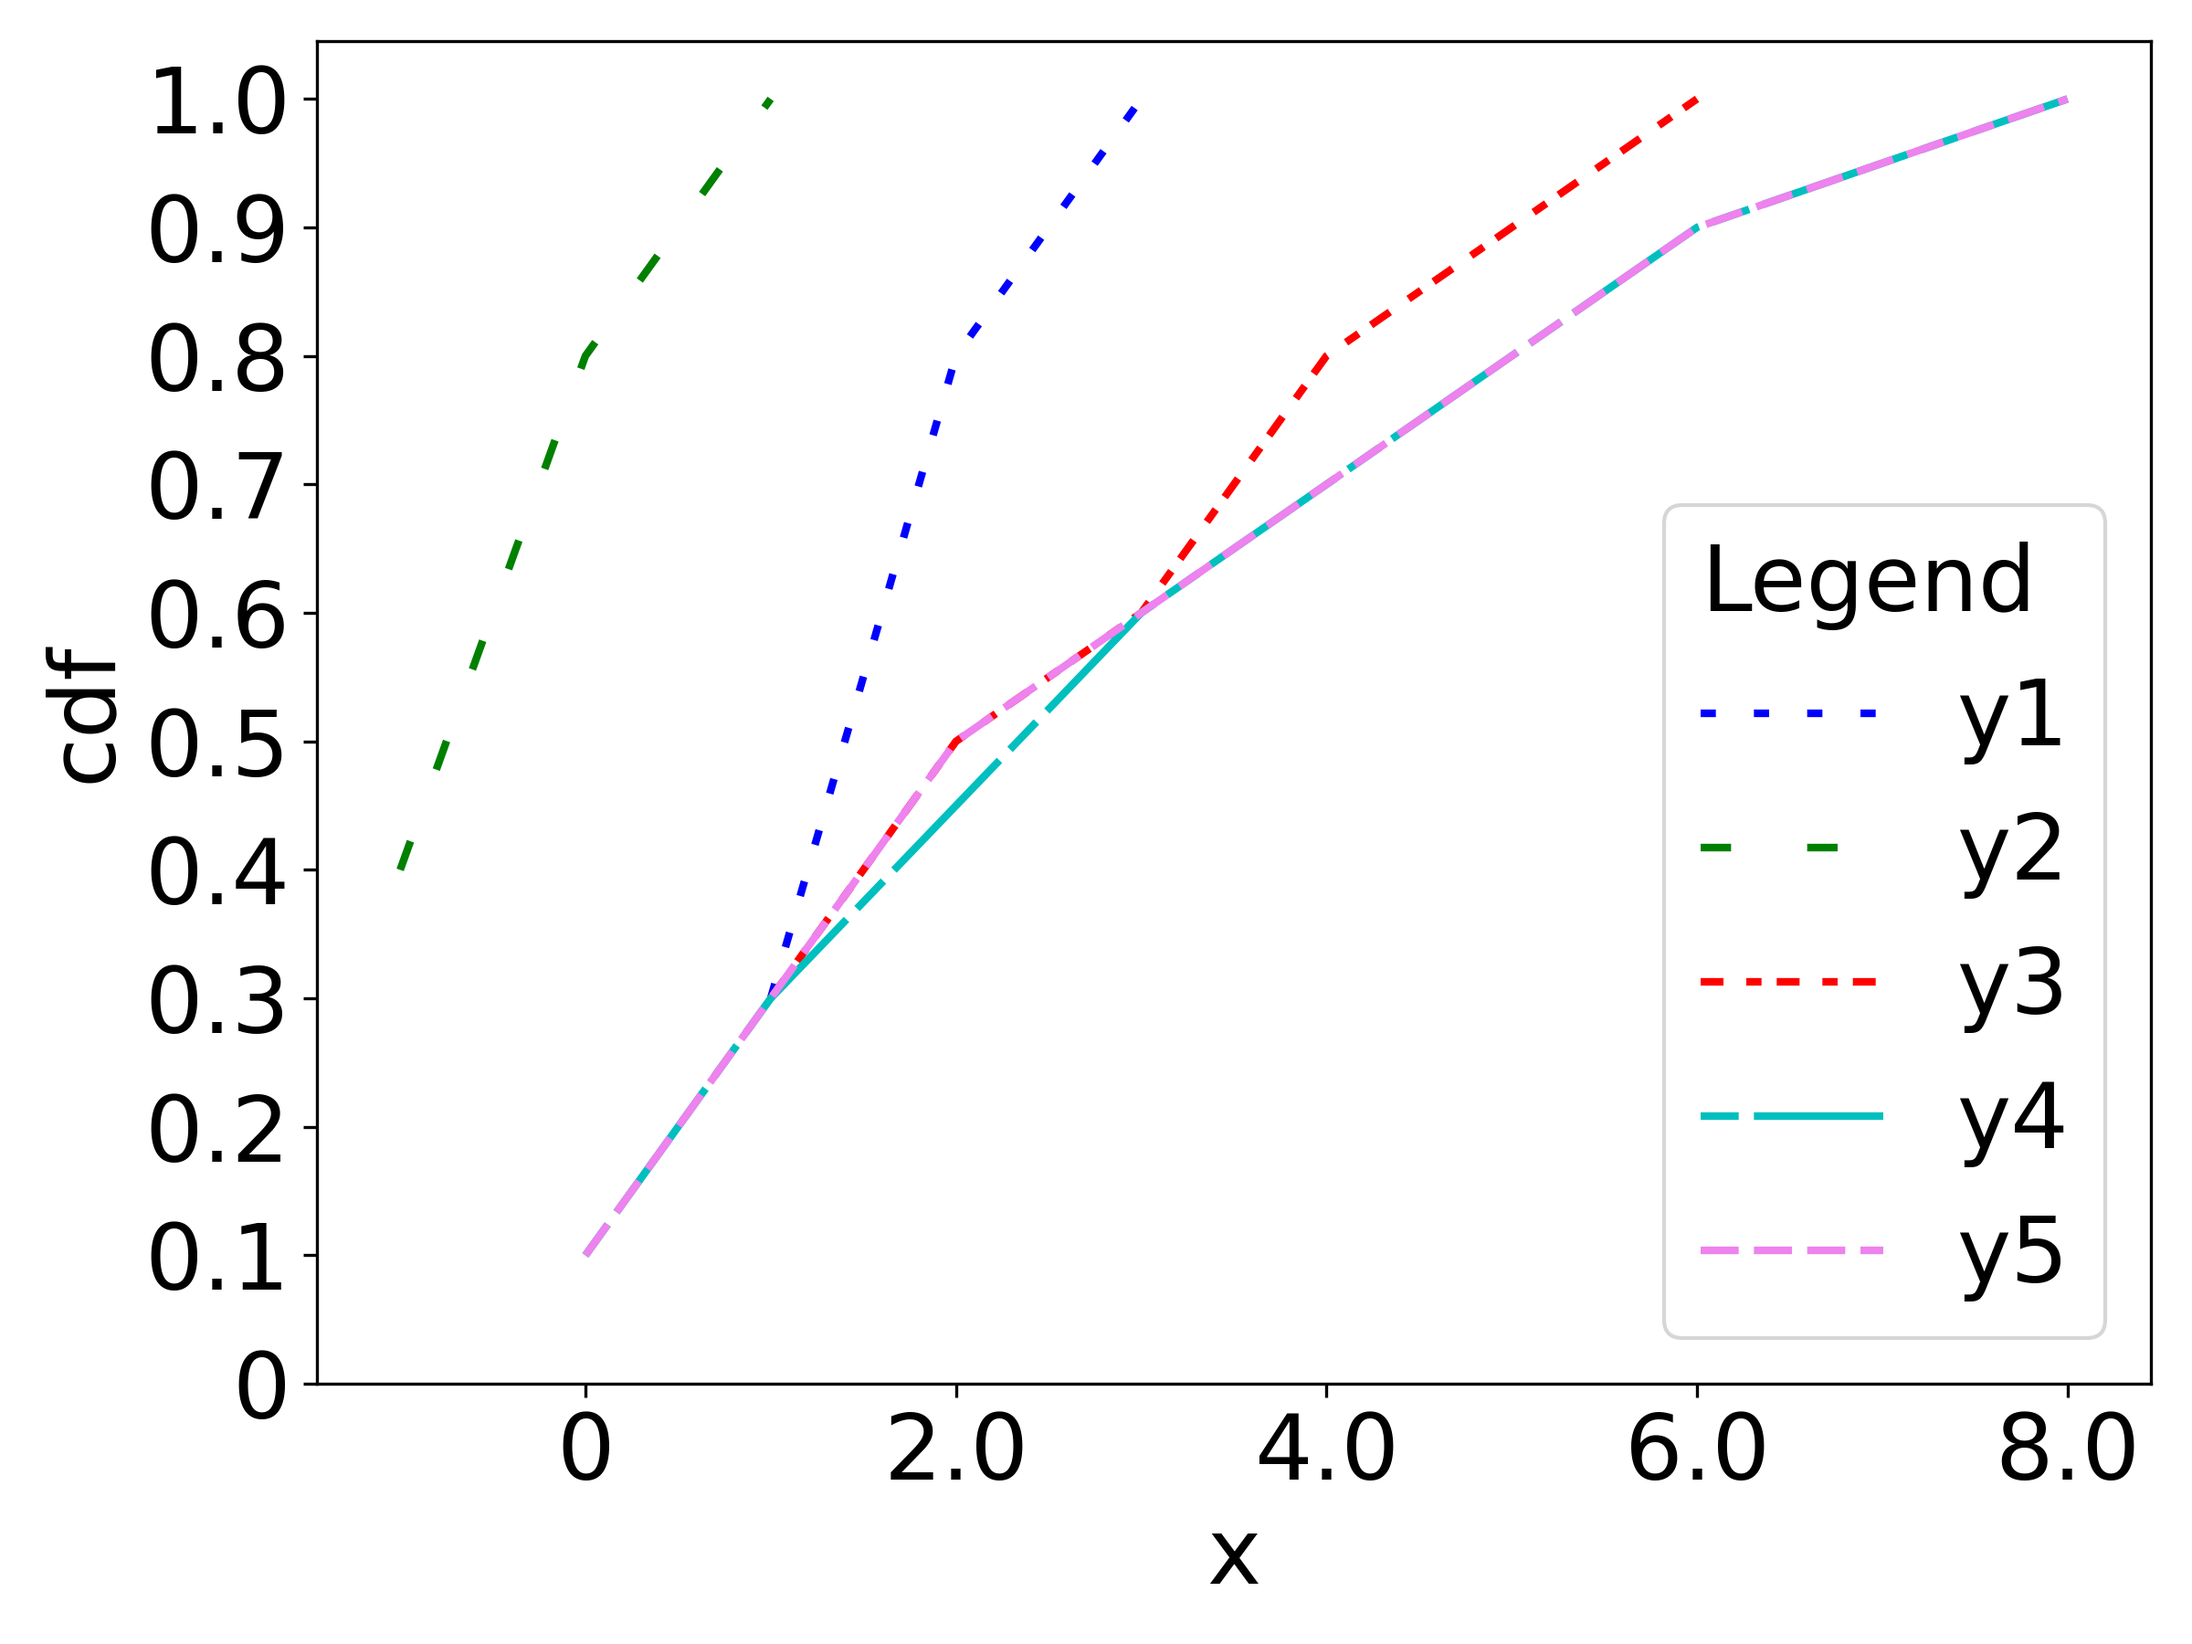
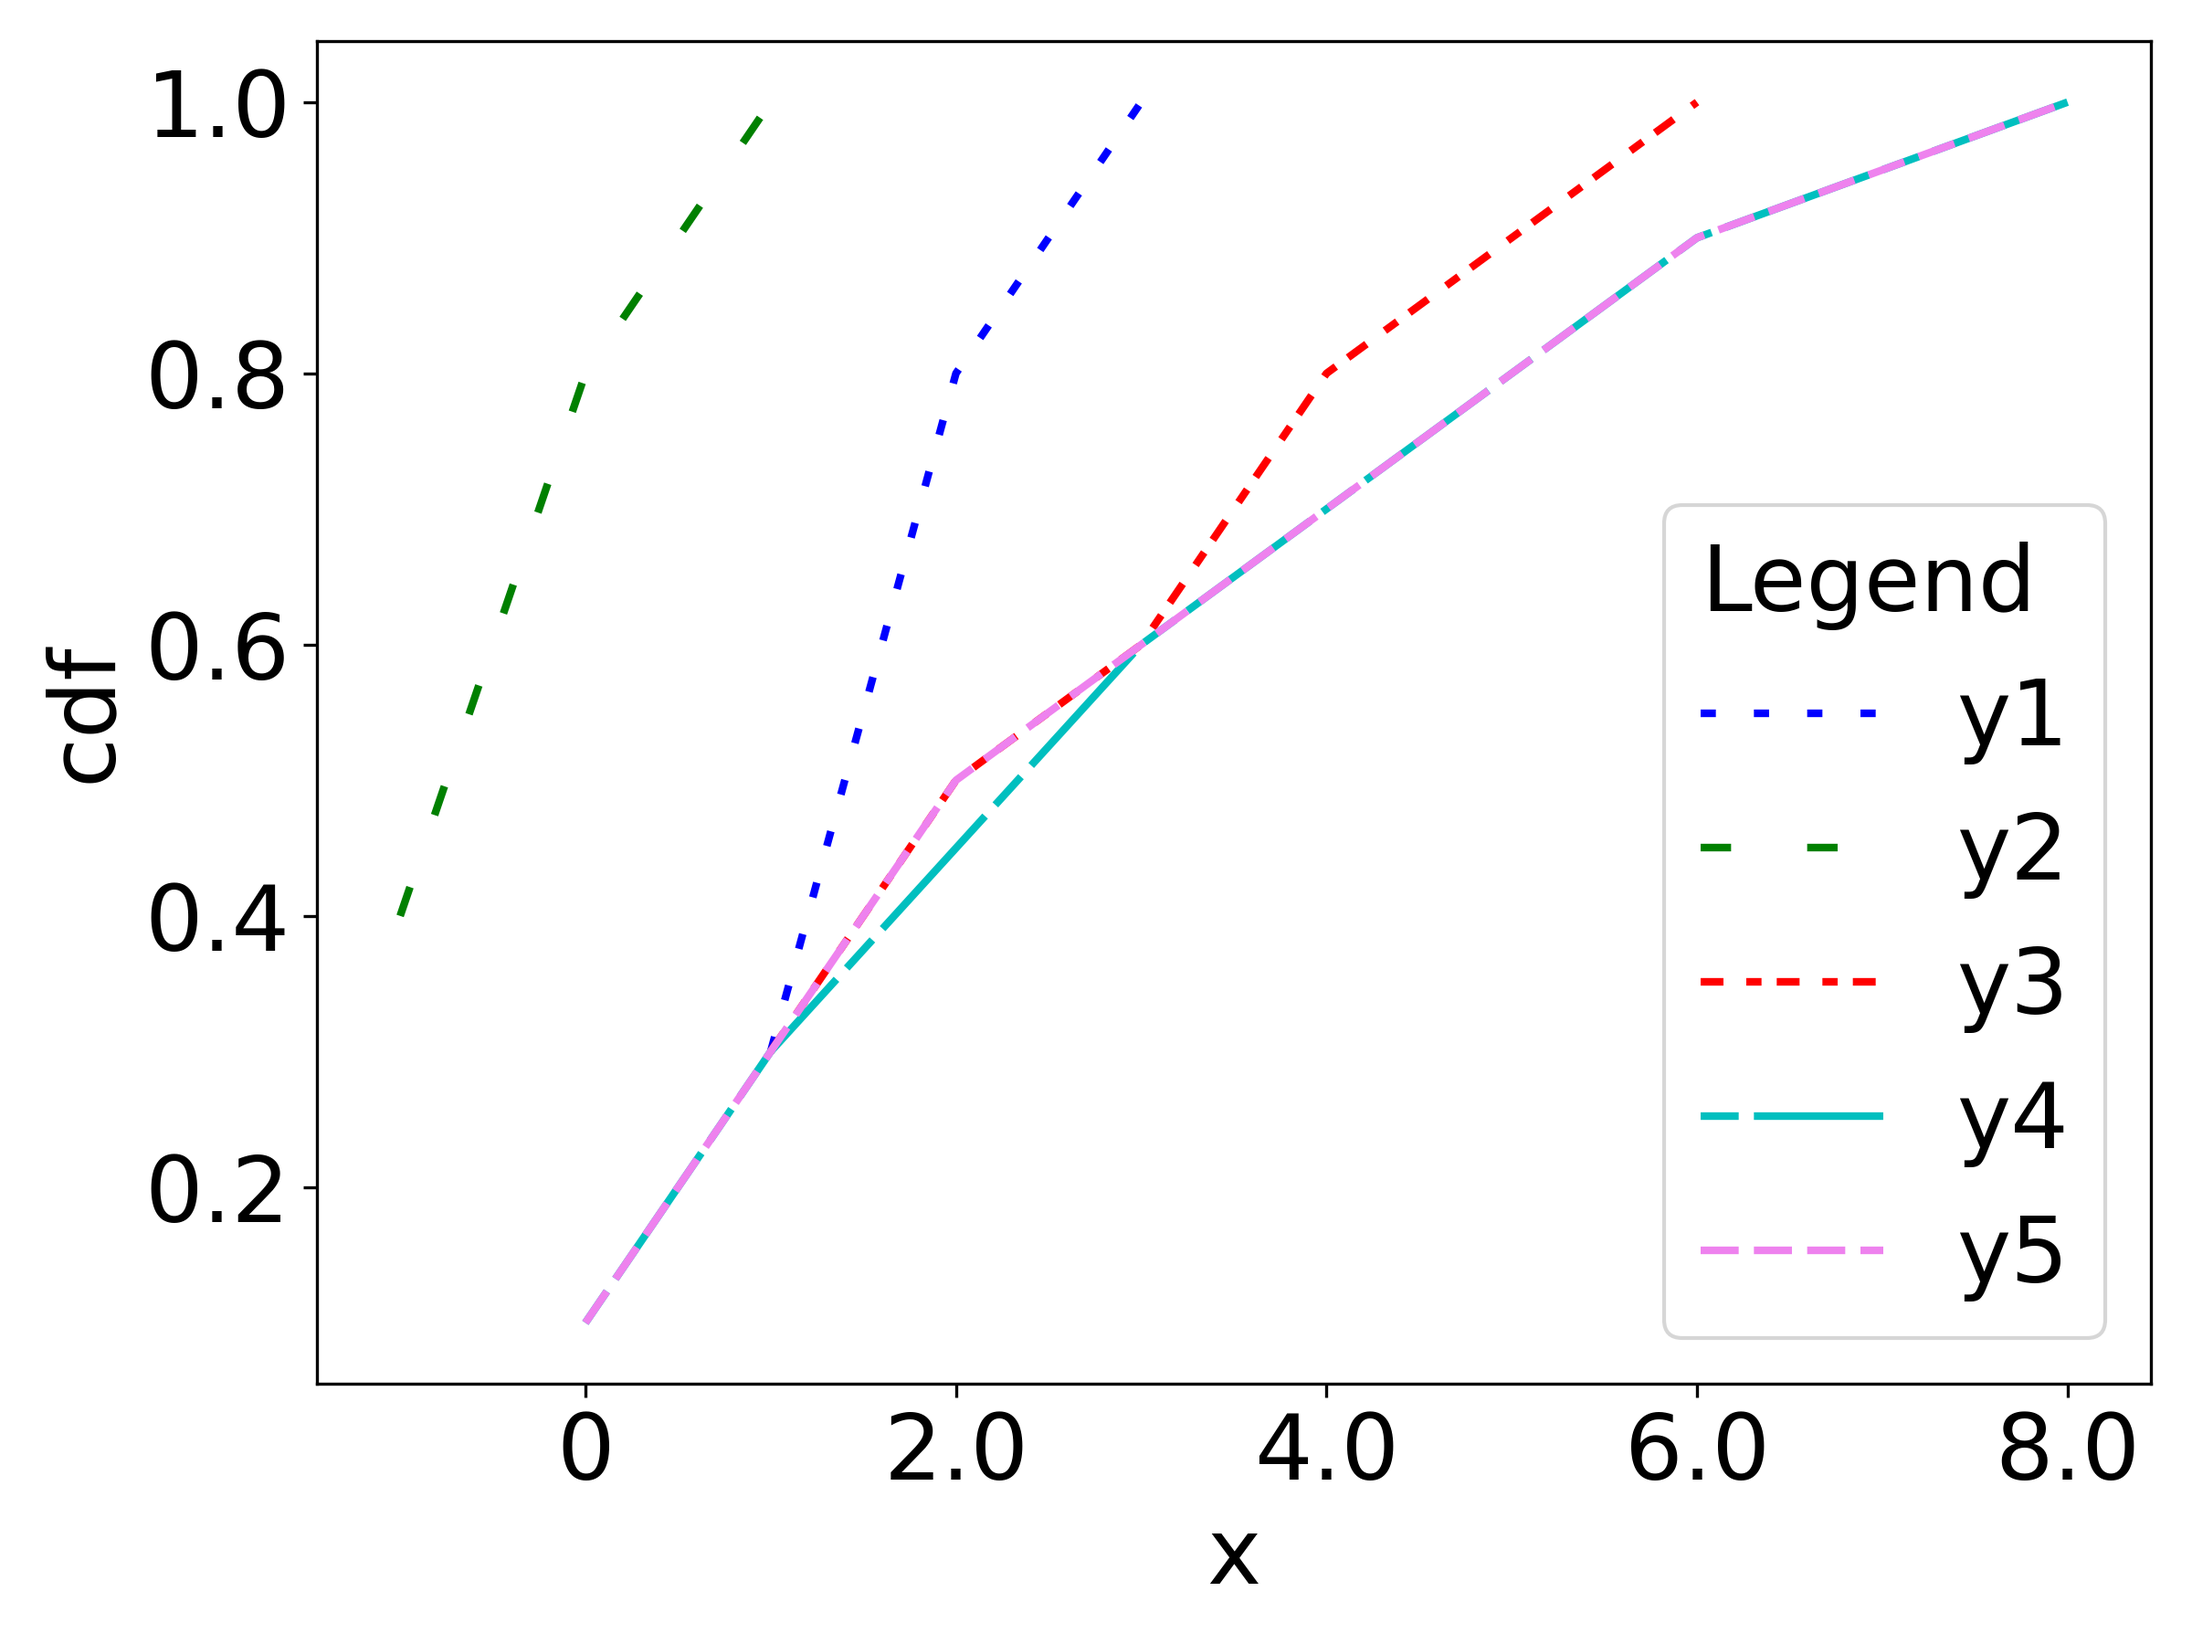
Update plotter

diff --git a/pyplotter/plot.py b/pyplotter/plot.py
@@ -2,7 +2,7 @@
 from matplotlib import pyplot as plt
 import os
 import numpy as np
-from matplotlib.ticker import FuncFormatter
+from matplotlib.ticker import FuncFormatter, LinearLocator
 from scipy import stats
 from typing import List
 from pyplotter.tick_formatter import CustomFormatter
@@ -186,7 +186,7 @@ class Plotter(Pyplot_config):
 
     # 绘制 cdf 图
     def plot_cdfs(self, x_label="x", y_label="cdf", legend_title="legend", legend_ncol=1, bbox_to_anchor=None,
-                  x_tick_ndigits=1, y_tick_ndigits=2,
+                  x_tick_ndigits=1, y_tick_ndigits=1, num_x_ticks=5, num_y_ticks=5,
                   legend_loc="best", cdf_data_list=None, legend_label_list=None, is_marker=False, linewidth=2, alpha=1,
                   save_root="./", filename="demo.png", is_show=False):
         # 画布
@@ -228,9 +228,12 @@ class Plotter(Pyplot_config):
                 label=cdf_label,
             )
 
-        # 设置 y 轴刻度范围
-        y_ticks = np.arange(0, 1.1, 0.1)  # 从 0 到 1（包含 1），以 0.1 为间隔的刻度
-        ax.set_yticks(y_ticks)
+        # 设置x轴的刻度
+        if num_x_ticks != None:
+            ax.xaxis.set_major_locator(MaxNLocator(integer=False, prune="both", nbins=num_x_ticks))
+        # 设置y轴的刻度
+        if num_y_ticks != None:
+            ax.yaxis.set_major_locator(MaxNLocator(integer=False, prune="both", nbins=num_y_ticks))
 
         # 创建图例
         legend = plt.legend(fontsize=self.legend_size, title=legend_title, loc=legend_loc, ncol=legend_ncol,
